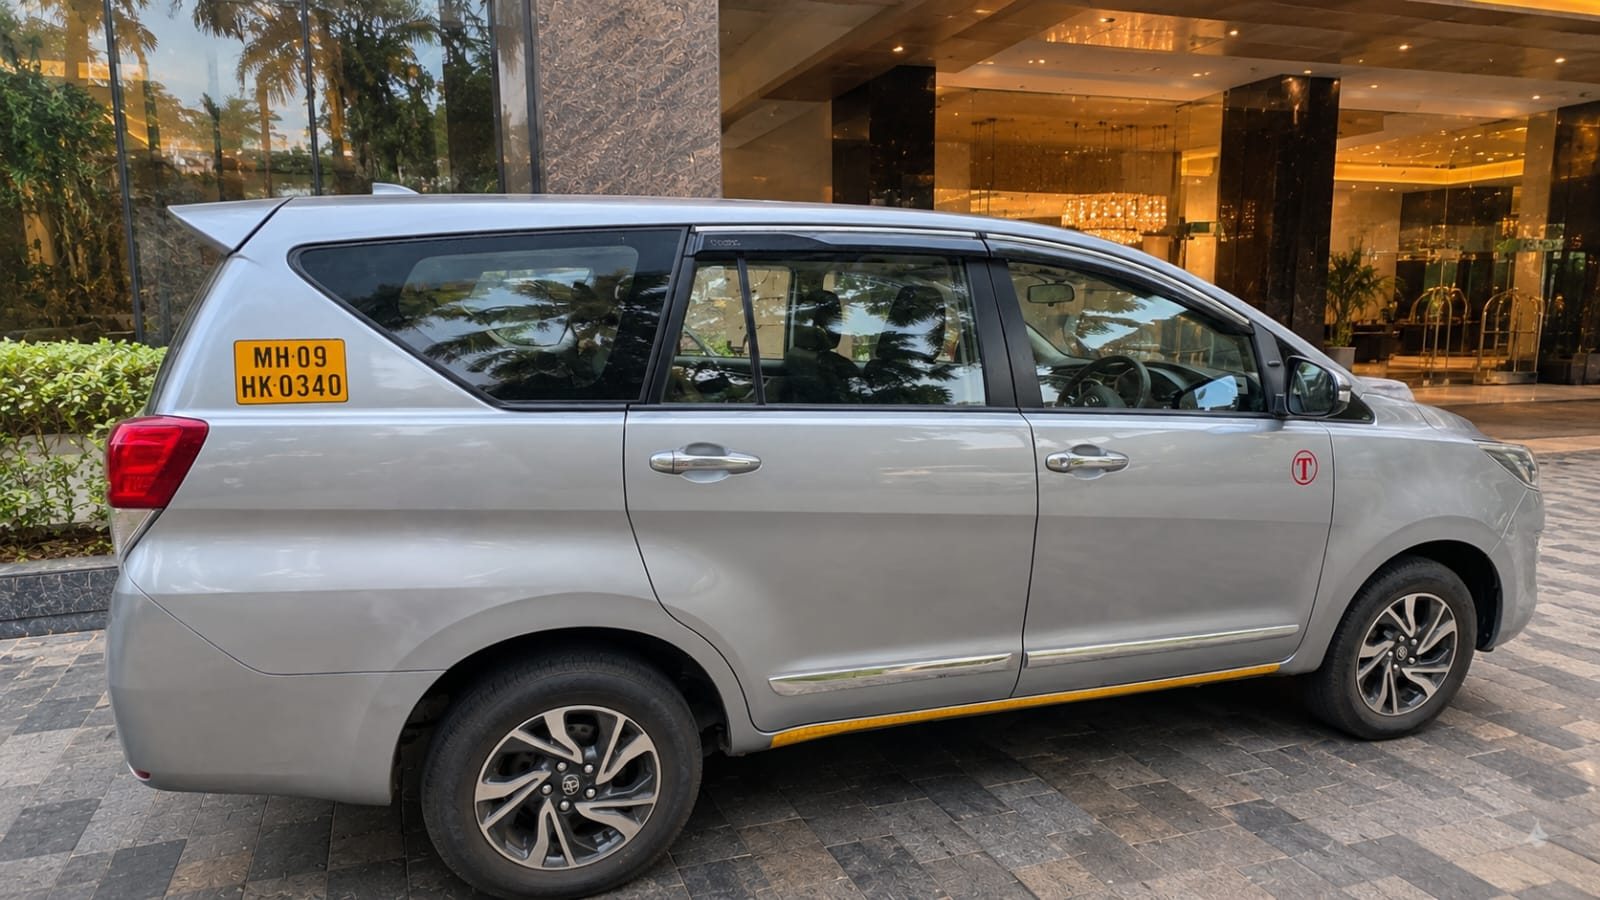
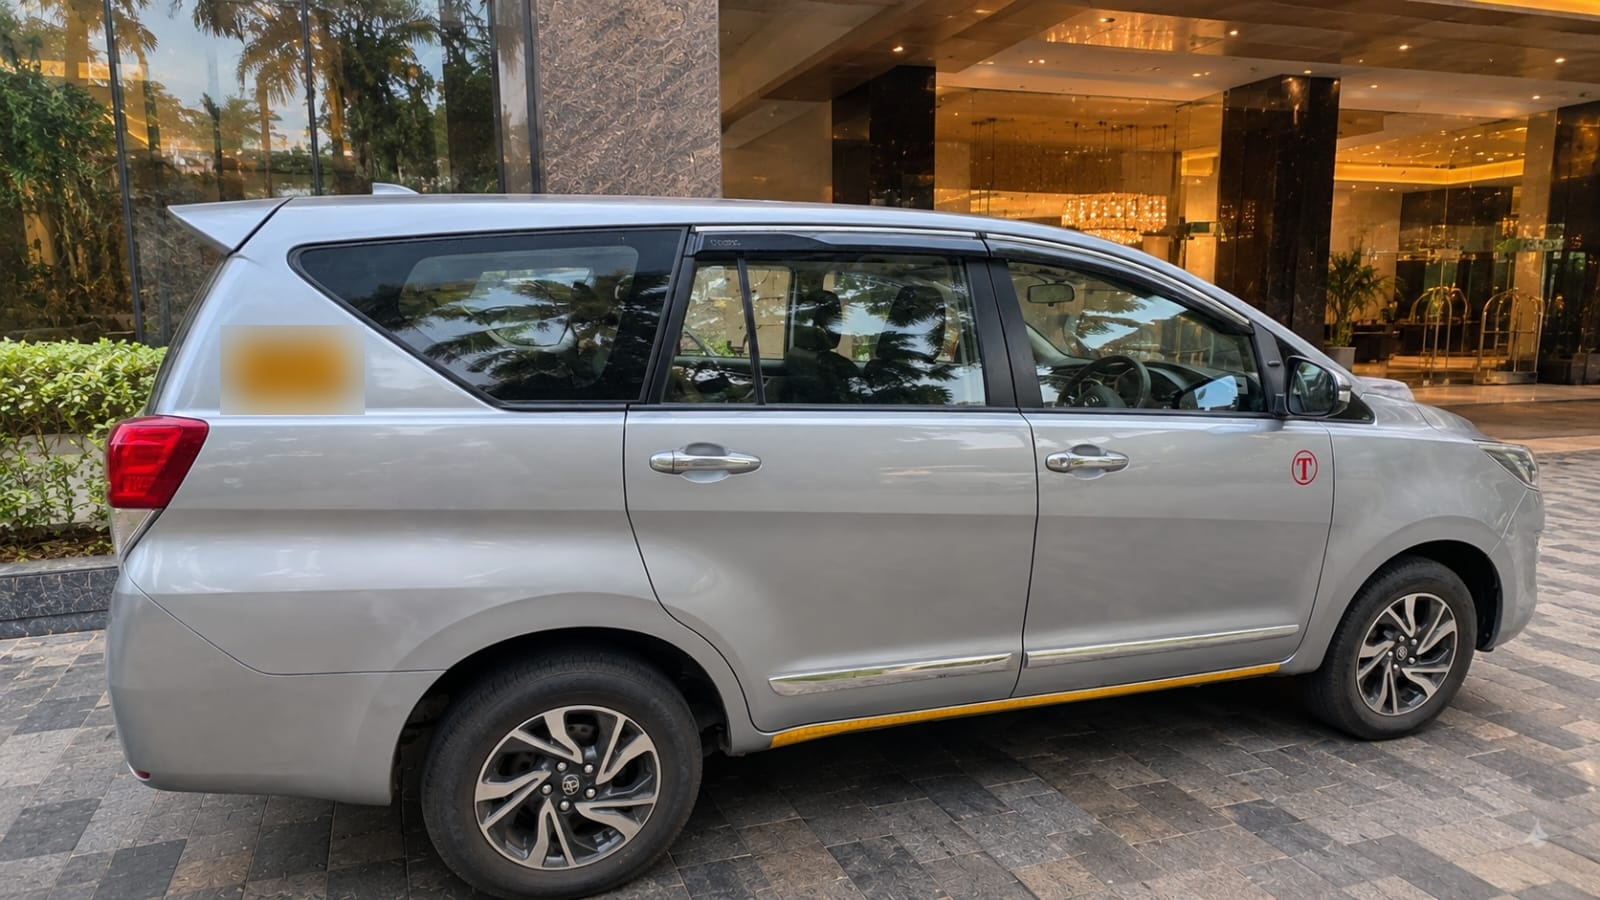
Refactor layout: blur number plate on vehicle, remove routes/how-it-works/gallery, move FAQ to end, update phone placeholder to 9614379062, and optimize page height

Changed region(s): [[0.125, 0.3422, 0.25, 0.4667]]

diff --git a/src/App.tsx b/src/App.tsx
@@ -1,8 +1,7 @@
 // ============================================================
 // AP Tours & Travels — Main Application
 // ============================================================
-// Assembles all sections in order. Each section is independently
-// editable. Content is driven from src/config/site.ts.
+// Assembles all sections in order. Content is driven from src/config/site.ts.
 // ============================================================
 
 import Header from './components/layout/Header';
@@ -14,13 +13,10 @@ import Hero from './components/sections/Hero';
 import TrustStrip from './components/sections/TrustStrip';
 import Services from './components/sections/Services';
 import OurVehicle from './components/sections/OurVehicle';
-import PopularRoutes from './components/sections/PopularRoutes';
-import HowItWorks from './components/sections/HowItWorks';
 import WhyChooseUs from './components/sections/WhyChooseUs';
-import Gallery from './components/sections/Gallery';
-import FAQ from './components/sections/FAQ';
 import PartnerWithUs from './components/sections/PartnerWithUs';
 import Contact from './components/sections/Contact';
+import FAQ from './components/sections/FAQ';
 
 function App() {
   return (
@@ -42,26 +38,17 @@ function App() {
         {/* 4. Our Vehicle */}
         <OurVehicle />
 
-        {/* 5. Popular Routes */}
-        <PopularRoutes />
-
-        {/* 6. How It Works */}
-        <HowItWorks />
-
-        {/* 7. Why Choose Us */}
+        {/* 5. Why Choose Us */}
         <WhyChooseUs />
 
-        {/* 8. Gallery */}
-        <Gallery />
-
-        {/* 9. FAQ */}
-        <FAQ />
-
-        {/* 10. Partner With Us */}
+        {/* 6. Partner With Us */}
         <PartnerWithUs />
 
-        {/* 11. Contact */}
+        {/* 7. Contact */}
         <Contact />
+
+        {/* 8. Frequently Asked Questions (At the last) */}
+        <FAQ />
       </main>
 
       {/* --- Footer --- */}

diff --git a/src/components/sections/TrustStrip.tsx b/src/components/sections/TrustStrip.tsx
@@ -92,18 +92,16 @@ const TrustStrip: React.FC = () => {
       id="trust-strip"
       ref={stripRef}
       aria-label="Trust and reliability highlights"
-      className="fade-in-section bg-[#F5B400] text-[#0B1530] py-4 md:py-6 shadow-sm relative z-10"
+      className="fade-in-section bg-[#F5B400] text-[#0B1530] py-3.5 md:py-5 shadow-sm relative z-10"
     >
       <div className="max-w-7xl mx-auto px-4 sm:px-6 lg:px-8">
-        <div className="grid grid-cols-2 md:flex md:flex-wrap items-center justify-center gap-3 sm:gap-6 lg:gap-0 lg:flex-nowrap">
+        <div className="grid grid-cols-2 md:grid-cols-4 items-center justify-center gap-3 sm:gap-6">
           {siteConfig.trustItems.map((item, index) => (
             <div
               key={index}
-              className={`flex items-center gap-2 sm:gap-2.5 px-2 md:px-5 lg:px-6 justify-center ${
-                index === siteConfig.trustItems.length - 1 ? 'col-span-2 md:col-span-1' : ''
-              } ${
+              className={`flex items-center gap-2 sm:gap-2.5 px-2 md:px-4 justify-center ${
                 index < siteConfig.trustItems.length - 1
-                  ? 'lg:border-r lg:border-[#0B1530]/20'
+                  ? 'md:border-r md:border-[#0B1530]/20'
                   : ''
               }`}
             >

diff --git a/src/config/site.ts b/src/config/site.ts
@@ -38,20 +38,18 @@ export const siteConfig = {
     { label: 'Home', href: '#home' },
     { label: 'Services', href: '#services' },
     { label: 'Our Vehicle', href: '#vehicle' },
-    { label: 'Routes', href: '#routes' },
     { label: 'Why Us', href: '#why-us' },
-    { label: 'FAQ', href: '#faq' },
     { label: 'Partner With Us', href: '#partner' },
     { label: 'Contact', href: '#contact' },
+    { label: 'FAQ', href: '#faq' },
   ],
 
   // --- Trust Strip ---
   trustItems: [
     { icon: 'driver', text: 'Professional Driver' },
     { icon: 'car', text: 'Clean & Comfortable 7-Seater Crysta' },
-    { icon: 'clock', text: 'Punctual Pickups' },
+    { icon: 'clock', text: 'Timely Pickups' },
     { icon: 'price', text: 'Transparent Pricing' },
-    { icon: 'map', text: 'Kolhapur–Pune–All India' },
   ],
 
   // --- Services ---

diff --git a/src/components/layout/Header.tsx b/src/components/layout/Header.tsx
@@ -26,12 +26,7 @@ export const Header: React.FC = () => {
 
     if (href.startsWith('#')) {
       const targetId = href.replace(/^#/, '');
-      let targetElement = document.getElementById(targetId);
-
-      // If routes section is hidden on mobile, scroll gracefully to services
-      if (targetId === 'routes' && (!targetElement || targetElement.offsetParent === null)) {
-        targetElement = document.getElementById('services') || document.getElementById('vehicle');
-      }
+      const targetElement = document.getElementById(targetId);
 
       if (targetElement) {
         targetElement.scrollIntoView({ behavior: 'smooth' });

diff --git a/src/components/ui/SectionHeading.tsx b/src/components/ui/SectionHeading.tsx
@@ -15,9 +15,9 @@ export const SectionHeading: React.FC<SectionHeadingProps> = ({
   className = '',
 }) => {
   return (
-    <div className={`text-center max-w-3xl mx-auto mb-6 sm:mb-8 md:mb-14 ${className}`}>
+    <div className={`text-center max-w-3xl mx-auto mb-6 sm:mb-8 md:mb-10 ${className}`}>
       <h2
-        className={`font-['Poppins'] font-bold text-xl sm:text-3xl md:text-4xl tracking-tight ${
+        className={`font-['Poppins'] font-bold text-xl sm:text-2xl md:text-3xl tracking-tight ${
           light ? 'text-white' : 'text-[#0B1530]'
         }`}
       >

diff --git a/src/components/sections/Hero.tsx b/src/components/sections/Hero.tsx
@@ -103,7 +103,7 @@ const Hero: React.FC = () => {
                 <svg className="w-4 h-4 text-[#F5B400]" fill="none" stroke="currentColor" viewBox="0 0 24 24">
                   <path strokeLinecap="round" strokeLinejoin="round" strokeWidth="2" d="M5 13l4 4L19 7" />
                 </svg>
-                Punctual & Courteous Driver
+                Timely & Courteous Driver
               </span>
             </div>
           </div>

diff --git a/src/components/sections/PartnerWithUs.tsx b/src/components/sections/PartnerWithUs.tsx
@@ -38,7 +38,7 @@ const PartnerWithUs: React.FC = () => {
     <section
       id="partner"
       ref={sectionRef}
-      className="fade-in-section py-10 md:py-24 bg-[#0B1530] text-white relative overflow-hidden"
+      className="fade-in-section py-10 md:py-16 bg-[#0B1530] text-white relative overflow-hidden"
     >
       {/* Decorative ambient background blur */}
       <div

diff --git a/src/components/sections/OurVehicle.tsx b/src/components/sections/OurVehicle.tsx
@@ -23,7 +23,7 @@ const OurVehicle: React.FC = () => {
     <section
       id="vehicle"
       ref={sectionRef}
-      className="fade-in-section py-10 md:py-24 bg-[#F8F9FA]"
+      className="fade-in-section py-10 md:py-16 bg-[#F8F9FA]"
     >
       <div className="max-w-7xl mx-auto px-4 sm:px-6 lg:px-8">
         {/* Section Heading */}

diff --git a/src/components/sections/WhyChooseUs.tsx b/src/components/sections/WhyChooseUs.tsx
@@ -87,7 +87,7 @@ const WhyChooseUs: React.FC = () => {
     <section
       id="why-us"
       ref={sectionRef}
-      className="fade-in-section py-10 md:py-24 bg-[#F8F9FA]"
+      className="fade-in-section py-10 md:py-16 bg-[#F8F9FA]"
     >
       <div className="max-w-7xl mx-auto px-4 sm:px-6 lg:px-8">
         {/* Section Heading */}

diff --git a/src/components/sections/Contact.tsx b/src/components/sections/Contact.tsx
@@ -121,7 +121,7 @@ const Contact: React.FC = () => {
     <section
       id="contact"
       ref={sectionRef}
-      className="fade-in-section py-10 md:py-24 bg-[#F8F9FA]"
+      className="fade-in-section py-10 md:py-16 bg-[#F8F9FA]"
     >
       <div className="max-w-7xl mx-auto px-4 sm:px-6 lg:px-8">
         {/* Section Heading */}

diff --git a/src/components/sections/Services.tsx b/src/components/sections/Services.tsx
@@ -113,7 +113,7 @@ const Services: React.FC = () => {
     <section
       id="services"
       ref={sectionRef}
-      className="fade-in-section py-10 md:py-24 bg-white"
+      className="fade-in-section py-10 md:py-16 bg-white"
     >
       <div className="max-w-7xl mx-auto px-4 sm:px-6 lg:px-8">
         {/* Section Heading */}

diff --git a/src/components/forms/PartnerForm.tsx b/src/components/forms/PartnerForm.tsx
@@ -234,7 +234,7 @@ const PartnerForm: React.FC = () => {
               name="phone"
               value={formData.phone}
               onChange={handleChange}
-              placeholder="e.g. 9822153400"
+              placeholder="e.g. 9614379062"
               className={inputClass}
               required
             />
